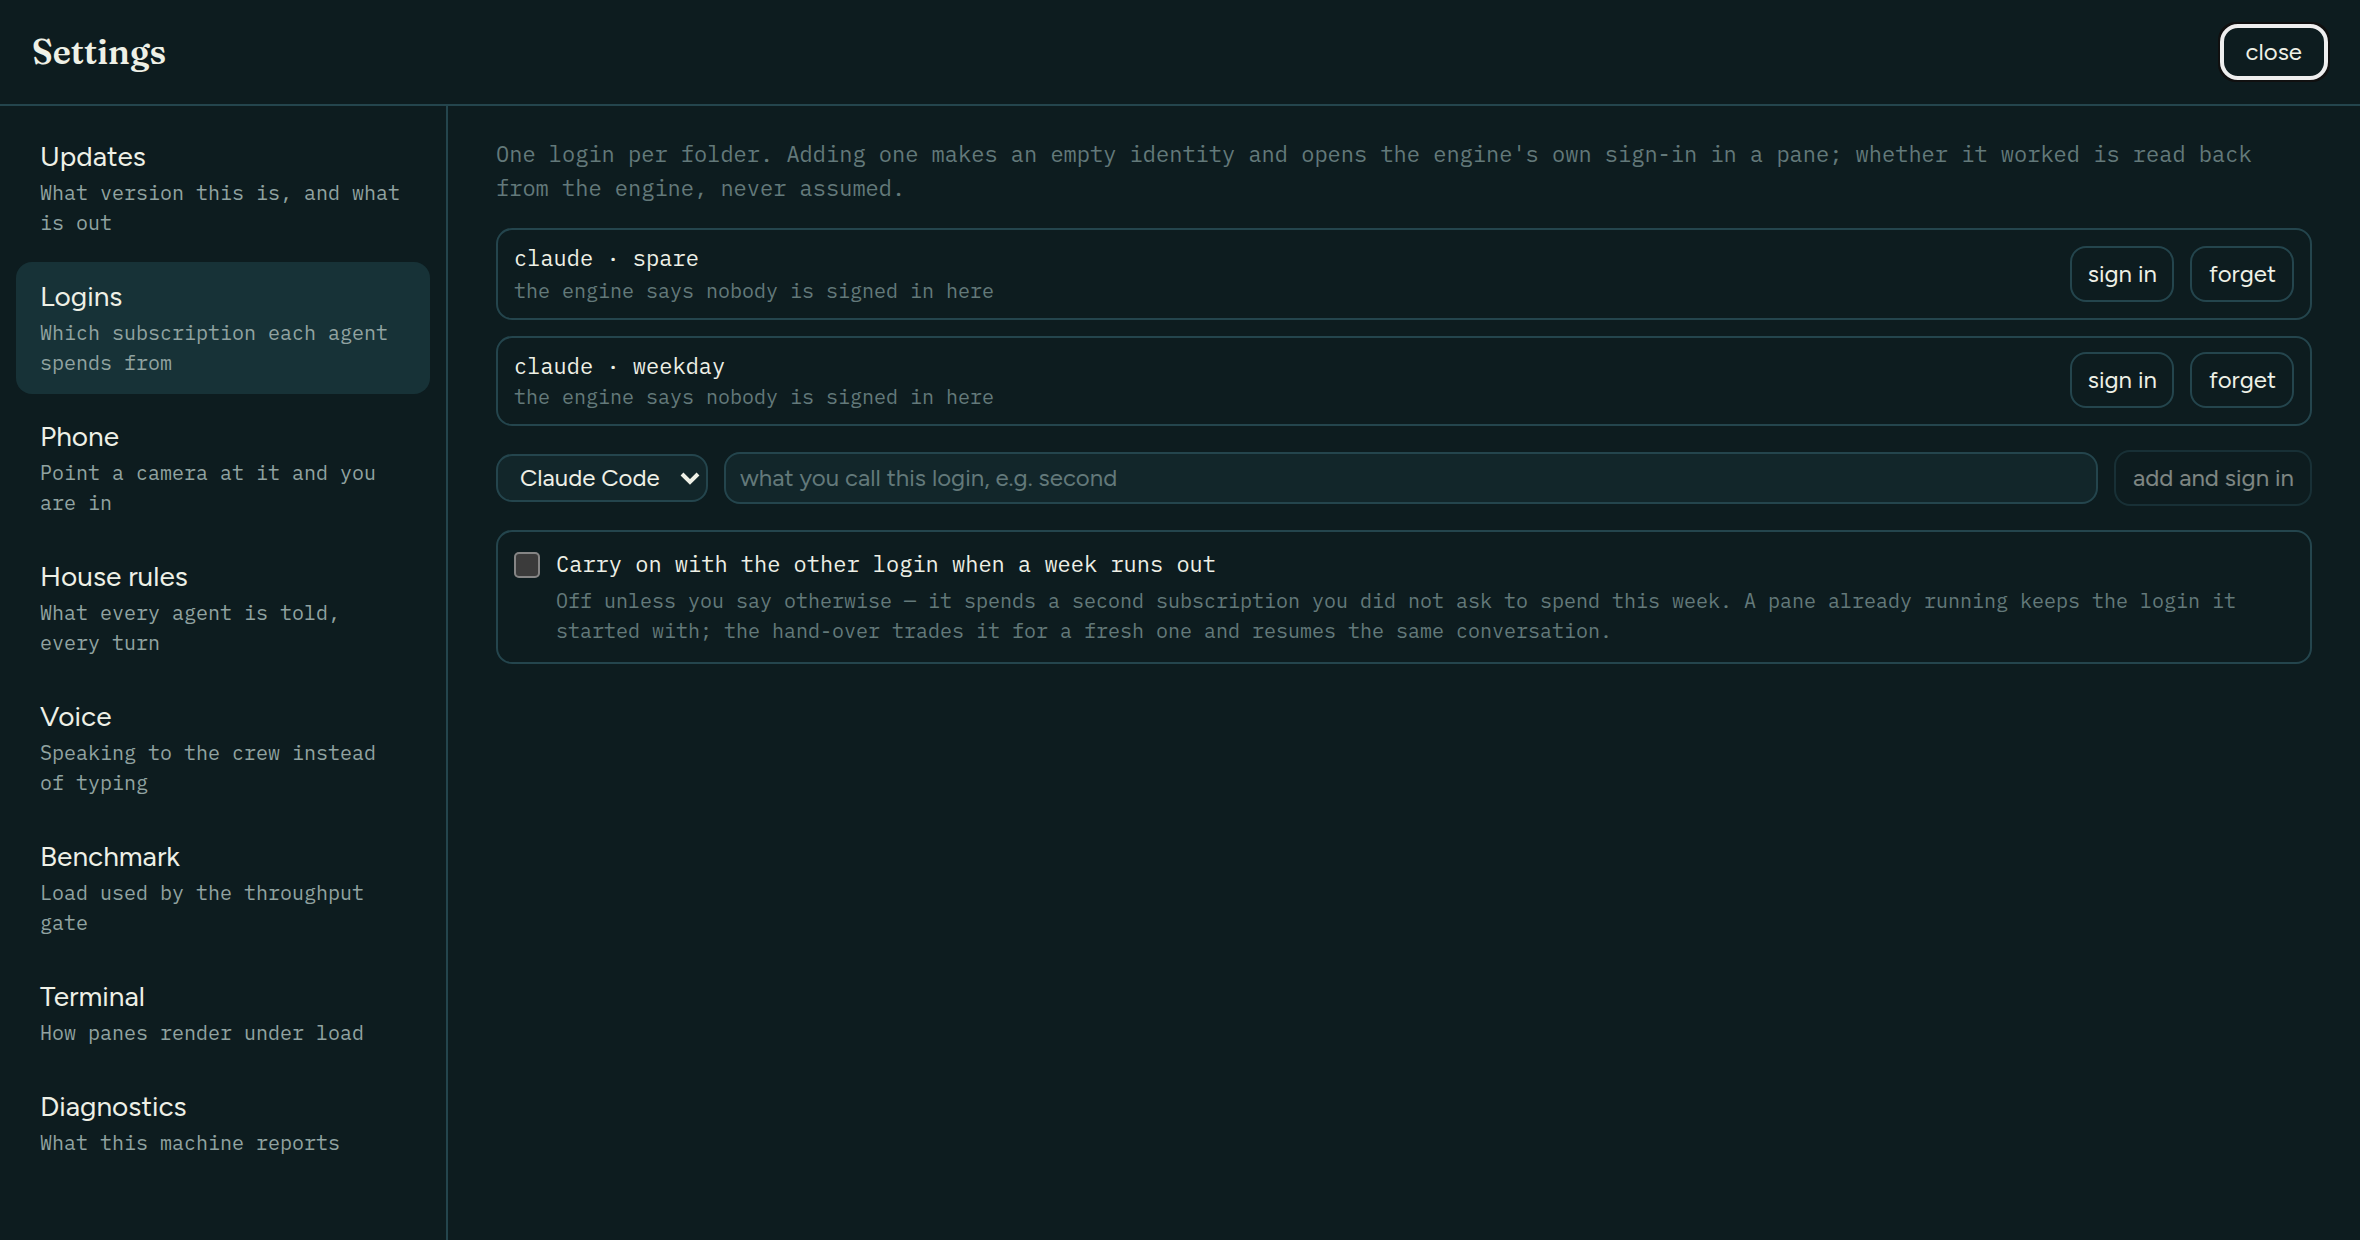
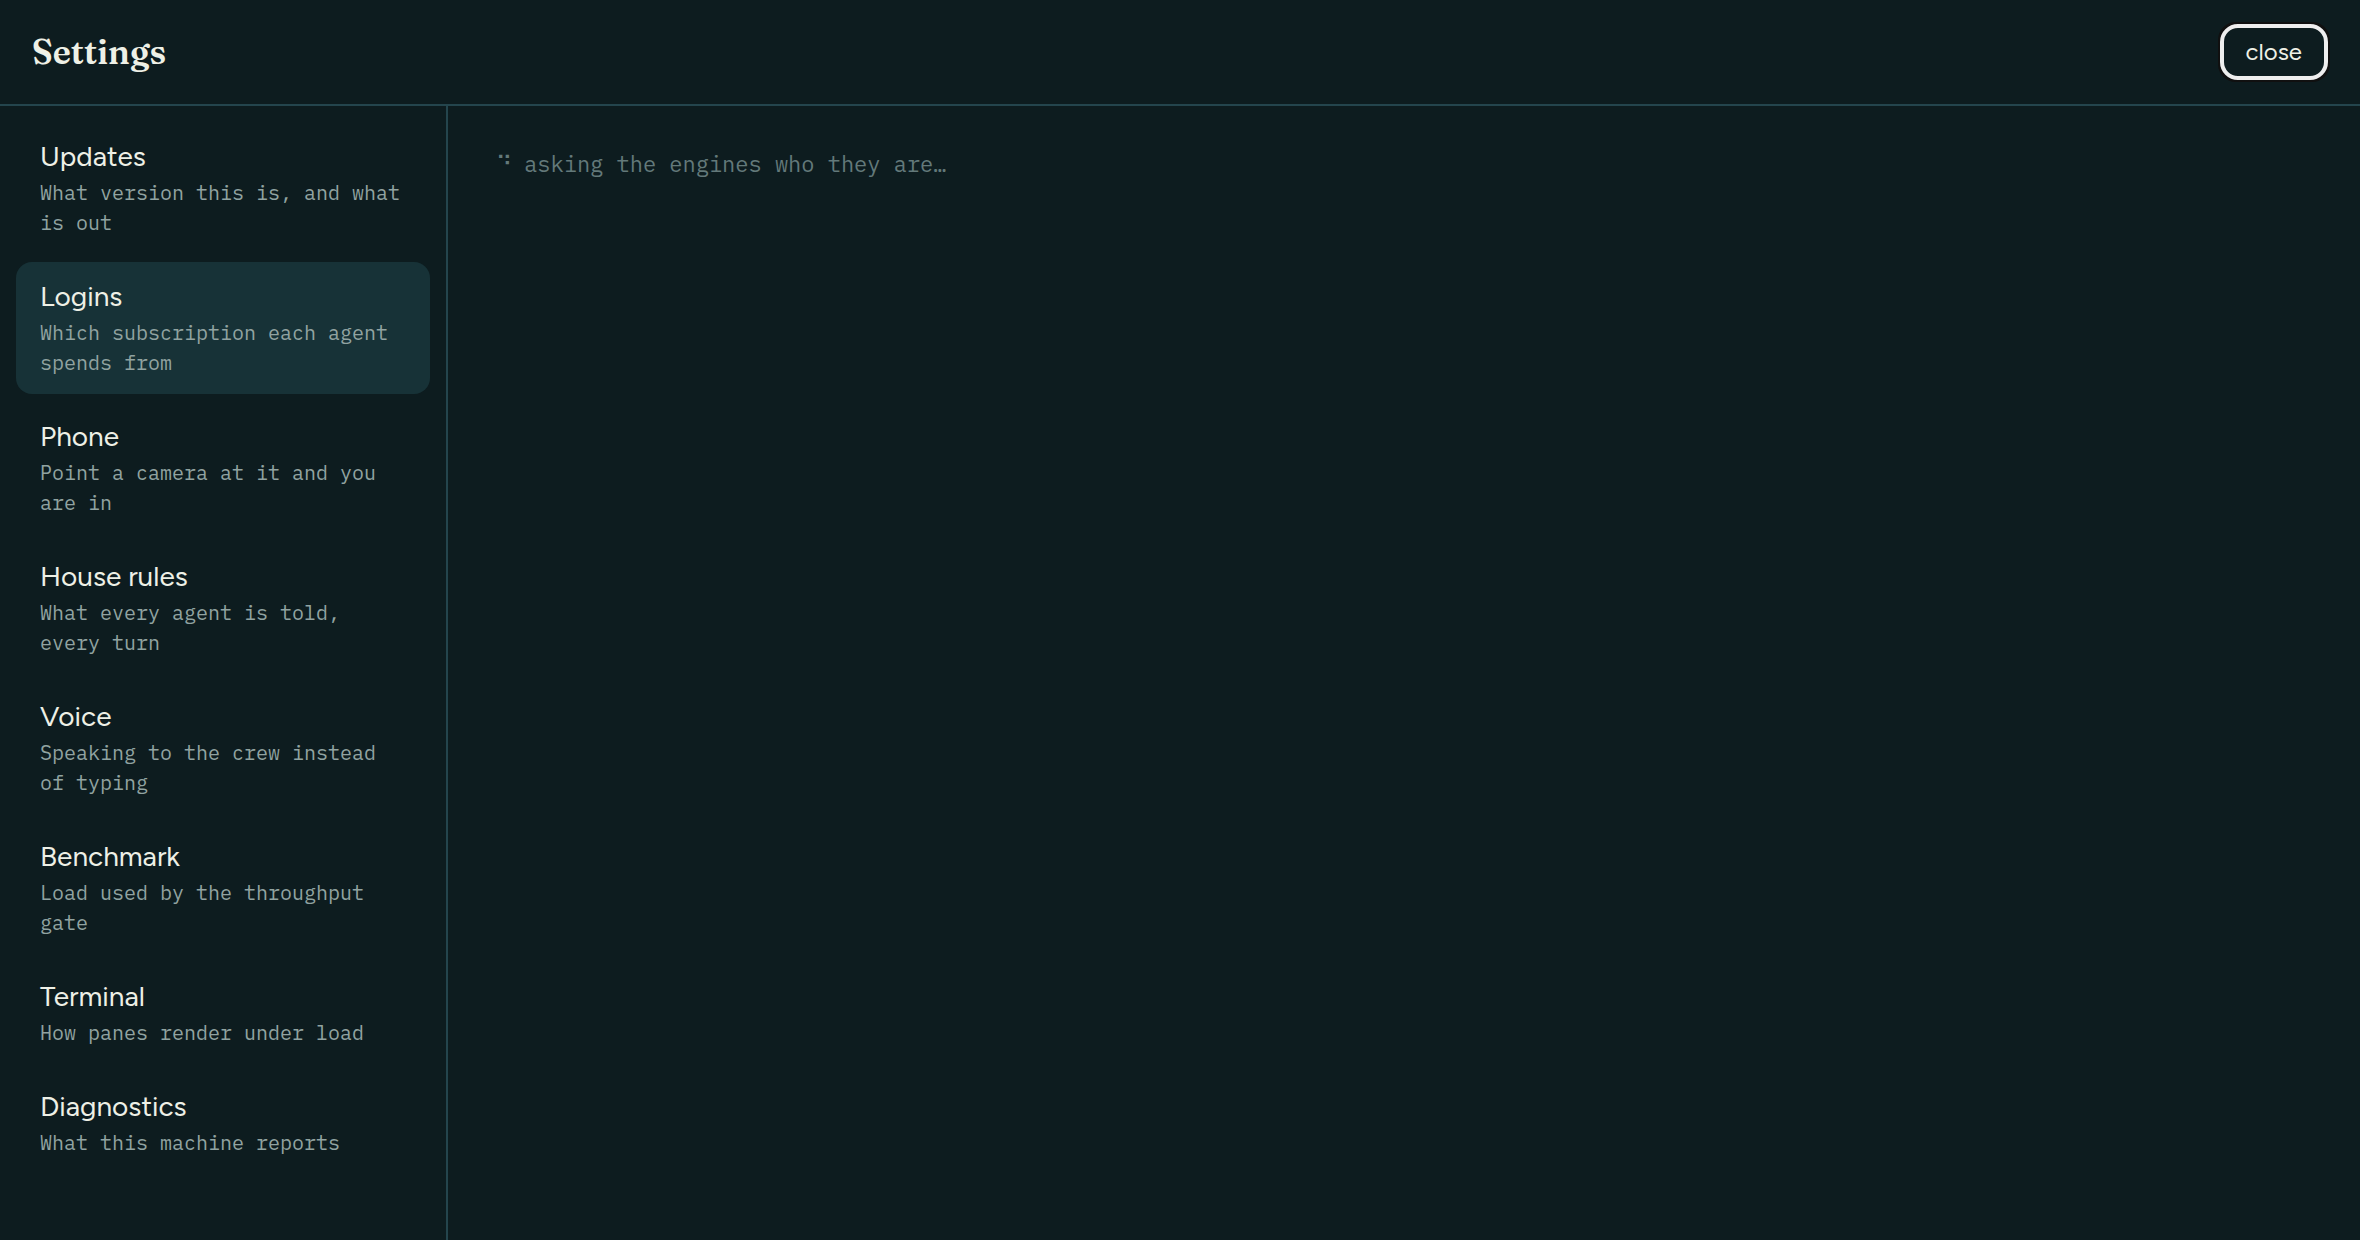
perf(engines): ask all of them at once, and stop asking twice
The crew panel photographed itself saying "No agent CLI found on PATH"
over a crew running on four of them. Nothing was broken — it was slow, and
the picture caught it mid-answer.

Asking an engine its version costs what that engine costs to start.
`gemini --version` is 2.2 seconds here. Eight were asked one after another
on every refresh, and the logins panel asked all eight again for its own
reasons, so opening the crew spent five and a half seconds before it
stopped saying something false.

They are asked at once now and the answer is kept for five seconds: long
enough that a panel does not pay twice, short enough that an engine
installed while the app runs still turns up on its own. Listing logins asks
nobody at all — the engines that can hold one are named, so it reads
folders. /accounts 5.6s to 2ms, /engines 2.8s to 2.5s cold and 2ms warm,
the suite 14.5s to 6.8s.

A login on an engine that is not installed right now is listed now too. A
folder with a credential in it does not stop existing because its engine
was uninstalled this morning, and a row that vanishes is a row nobody can
forget on purpose.

The pictures are re-taken with a crew spread across whatever the machine
has, read from the core rather than assumed, so a machine with one engine
still photographs an honest crew.

Claude-Session: https://claude.ai/code/session_01VwtdckBDBn2P5R6i9ARjhn

diff --git a/crates/core/src/crew.rs b/crates/core/src/crew.rs
@@ -140,36 +140,76 @@ pub enum PromptStyle {
     None,
 }
 
+/// What each engine last said its version was, and when it said it.
+///
+/// Asking is not free. `gemini --version` takes 2.2 seconds on this machine and
+/// `cursor-agent --version` 0.65, so eight questions asked one after another
+/// cost three seconds — every time a panel refreshed. The crew panel photographed
+/// itself mid-answer and rendered "No agent CLI found on PATH" over a crew
+/// running on four of them.
+///
+/// So they are asked all at once, and the answer is kept for a few seconds. Long
+/// enough that a panel opening does not pay for it twice; short enough that an
+/// engine installed while the app is running still turns up on its own.
+static PROBED: Mutex<Option<(std::time::Instant, Vec<(bool, Option<String>)>)>> = Mutex::new(None);
+
+const PROBE_LASTS: std::time::Duration = std::time::Duration::from_secs(5);
+
+fn probe() -> Vec<(bool, Option<String>)> {
+    if let Some((asked, held)) = PROBED.lock().as_ref() {
+        if asked.elapsed() < PROBE_LASTS {
+            return held.clone();
+        }
+    }
+
+    let fresh: Vec<(bool, Option<String>)> = std::thread::scope(|scope| {
+        let asking: Vec<_> = CATALOG
+            .iter()
+            .map(|known| scope.spawn(|| version_of(known.command)))
+            .collect();
+
+        asking
+            .into_iter()
+            .map(|handle| handle.join().unwrap_or(None))
+            .map(|version| (version.is_some(), version))
+            .collect()
+    });
+
+    *PROBED.lock() = Some((std::time::Instant::now(), fresh.clone()));
+    fresh
+}
+
+fn version_of(command: &str) -> Option<String> {
+    crate::exec::command(command)
+        .arg("--version")
+        .output()
+        .ok()
+        .filter(|output| output.status.success())
+        .map(|output| {
+            String::from_utf8_lossy(&output.stdout)
+                .lines()
+                .next()
+                .unwrap_or_default()
+                .trim()
+                .to_owned()
+        })
+}
+
 pub fn engines() -> Vec<Engine> {
     CATALOG
         .iter()
-        .map(|known| {
-            let version = crate::exec::command(known.command)
-                .arg("--version")
-                .output()
-                .ok()
-                .filter(|output| output.status.success())
-                .map(|output| {
-                    String::from_utf8_lossy(&output.stdout)
-                        .lines()
-                        .next()
-                        .unwrap_or_default()
-                        .trim()
-                        .to_owned()
-                });
-
-            Engine {
-                id: known.id,
-                name: known.name,
-                command: known.command,
-                resume: known.resume,
-                model_flag: known.model_flag,
-                prompt_style: known.prompt_style,
-                takes_the_tools: known.takes_the_tools,
-                resume_carries_a_brief: known.resume_carries_a_brief,
-                installed: version.is_some(),
-                version,
-            }
+        .zip(probe())
+        .map(|(known, (installed, version))| Engine {
+            id: known.id,
+            name: known.name,
+            command: known.command,
+            resume: known.resume,
+            model_flag: known.model_flag,
+            prompt_style: known.prompt_style,
+            takes_the_tools: known.takes_the_tools,
+            resume_carries_a_brief: known.resume_carries_a_brief,
+            installed,
+            version,
         })
         .collect()
 }

diff --git a/crates/core/src/accounts.rs b/crates/core/src/accounts.rs
@@ -321,14 +321,19 @@ pub fn list(data_dir: &Path, engine_id: &str) -> Vec<Account> {
         .collect()
 }
 
-/// Every login this machine holds, across the engines that can hold more than
-/// one.
+/// The engines that can be given a folder of their own.
+///
+/// Named rather than discovered, so listing the logins somebody holds costs a
+/// folder read instead of asking every engine on the machine what version it is.
+pub const CAN_HOLD: &[&str] = &["claude", "codex", "gemini"];
+
+/// Every login this machine holds.
+///
+/// Including logins on an engine that is not installed right now. A folder with
+/// a credential in it does not stop existing because its engine was uninstalled
+/// this morning, and a row that vanishes is a row nobody can forget on purpose.
 pub fn all(data_dir: &Path) -> Vec<Account> {
-    crate::crew::engines()
-        .into_iter()
-        .filter(|engine| engine.installed && can_hold_accounts(engine.id))
-        .flat_map(|engine| list(data_dir, engine.id))
-        .collect()
+    CAN_HOLD.iter().flat_map(|engine| list(data_dir, engine)).collect()
 }
 
 /// Another login on the same engine that could take this work on.
@@ -366,6 +371,20 @@ mod tests {
     fn a_subscription_is_a_folder_not_a_base_url() {
         assert_eq!(config_home("claude"), Some("CLAUDE_CONFIG_DIR"));
         assert_eq!(config_home("codex"), Some("CODEX_HOME"));
+    }
+
+    #[test]
+    fn the_named_engines_are_exactly_the_ones_with_a_folder_variable() {
+        for engine in CAN_HOLD {
+            assert!(can_hold_accounts(engine), "{engine} is named but has no variable");
+        }
+
+        for engine in ["cursor-agent", "crush", "goose", "opencode", "qwen"] {
+            assert!(
+                !CAN_HOLD.contains(&engine),
+                "{engine} has no variable and must not be named"
+            );
+        }
     }
 
     #[test]

diff --git a/README.md b/README.md
@@ -10,8 +10,10 @@ Status: **M7 — approvals reach the phone.** 489 core tests and 282 in the wind
 
 A crew is named, given an engine and a worktree each, and hired. Nobody is
 running here — starting an agent is a decision, not a side effect of hiring one.
+A crew is not one engine either: the strip at the top is what this machine has,
+and the four hired below are on four different ones.
 
-![The crew panel: Ada, Kai and Wren, each with an engine, a model and a worktree of their own](docs/the-crew.png)
+![The crew panel: Ada on Claude Code, Kai on Codex, Tor on Cursor Agent and Wren on Gemini, each with a worktree of their own](docs/the-crew.png)
 
 Work is cards. A card carries the project it belongs to, moves through the
 columns as it is picked up, and ends beside the diff it produced.
@@ -2032,6 +2034,30 @@ rules out a gateway. Gemini does move: `GEMINI_CLI_HOME` relocates the whole
 home, measured the same way as Codex's. But Gemini has no status command, so a
 row about a Gemini login is a silence rather than a yes or a no, and the panel
 says which of those it is.
+
+### The panel that lied about the engines it had
+
+Taking that picture caught a bug the code review would not have. The crew panel
+photographed itself reading **"No agent CLI found on PATH. Install one"** over a
+crew running on four of them.
+
+Nothing was broken; it was slow. Asking an engine its version costs what that
+engine costs to start — `gemini --version` is 2.2 seconds on this machine — and
+eight of them were asked one after another, on every refresh of the panel. The
+logins panel then asked all eight again for its own reasons, so opening the crew
+took five and a half seconds to stop saying something false.
+
+They are asked all at once now, and the answer is kept for five seconds: long
+enough that a panel does not pay for it twice, short enough that an engine
+installed while the app runs still turns up on its own. Listing logins asks
+nobody — the engines that can hold one are named, so it reads folders instead.
+`/accounts` went from 5.6 seconds to two milliseconds, `/engines` from 2.8 to
+2.5 cold and two milliseconds warm, and the test suite from 14.5 seconds to 6.8.
+
+One thing changed shape while fixing it: a login on an engine that is not
+installed right now is still listed. A folder with a credential in it does not
+stop existing because its engine was uninstalled this morning, and a row that
+vanishes is a row nobody can forget on purpose.
 
 ## Two subscriptions, one crew
 
